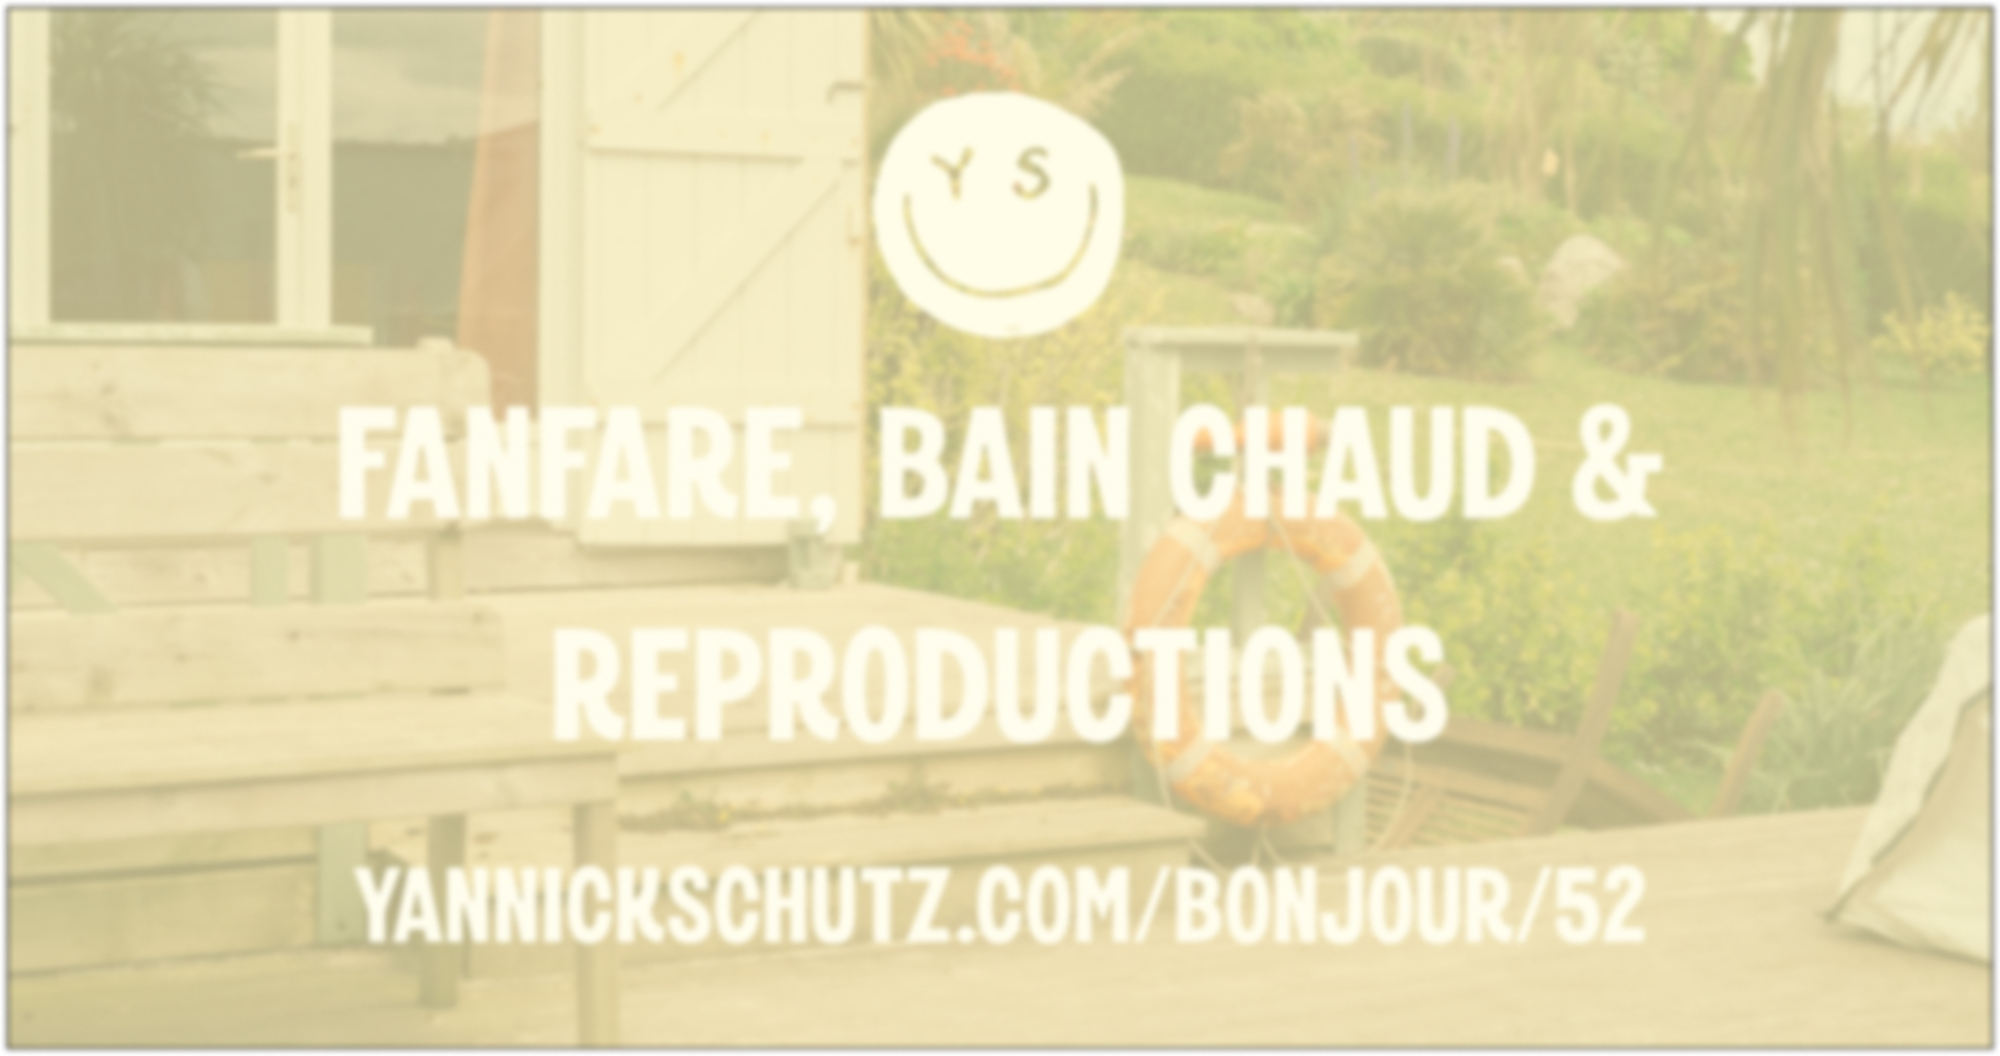
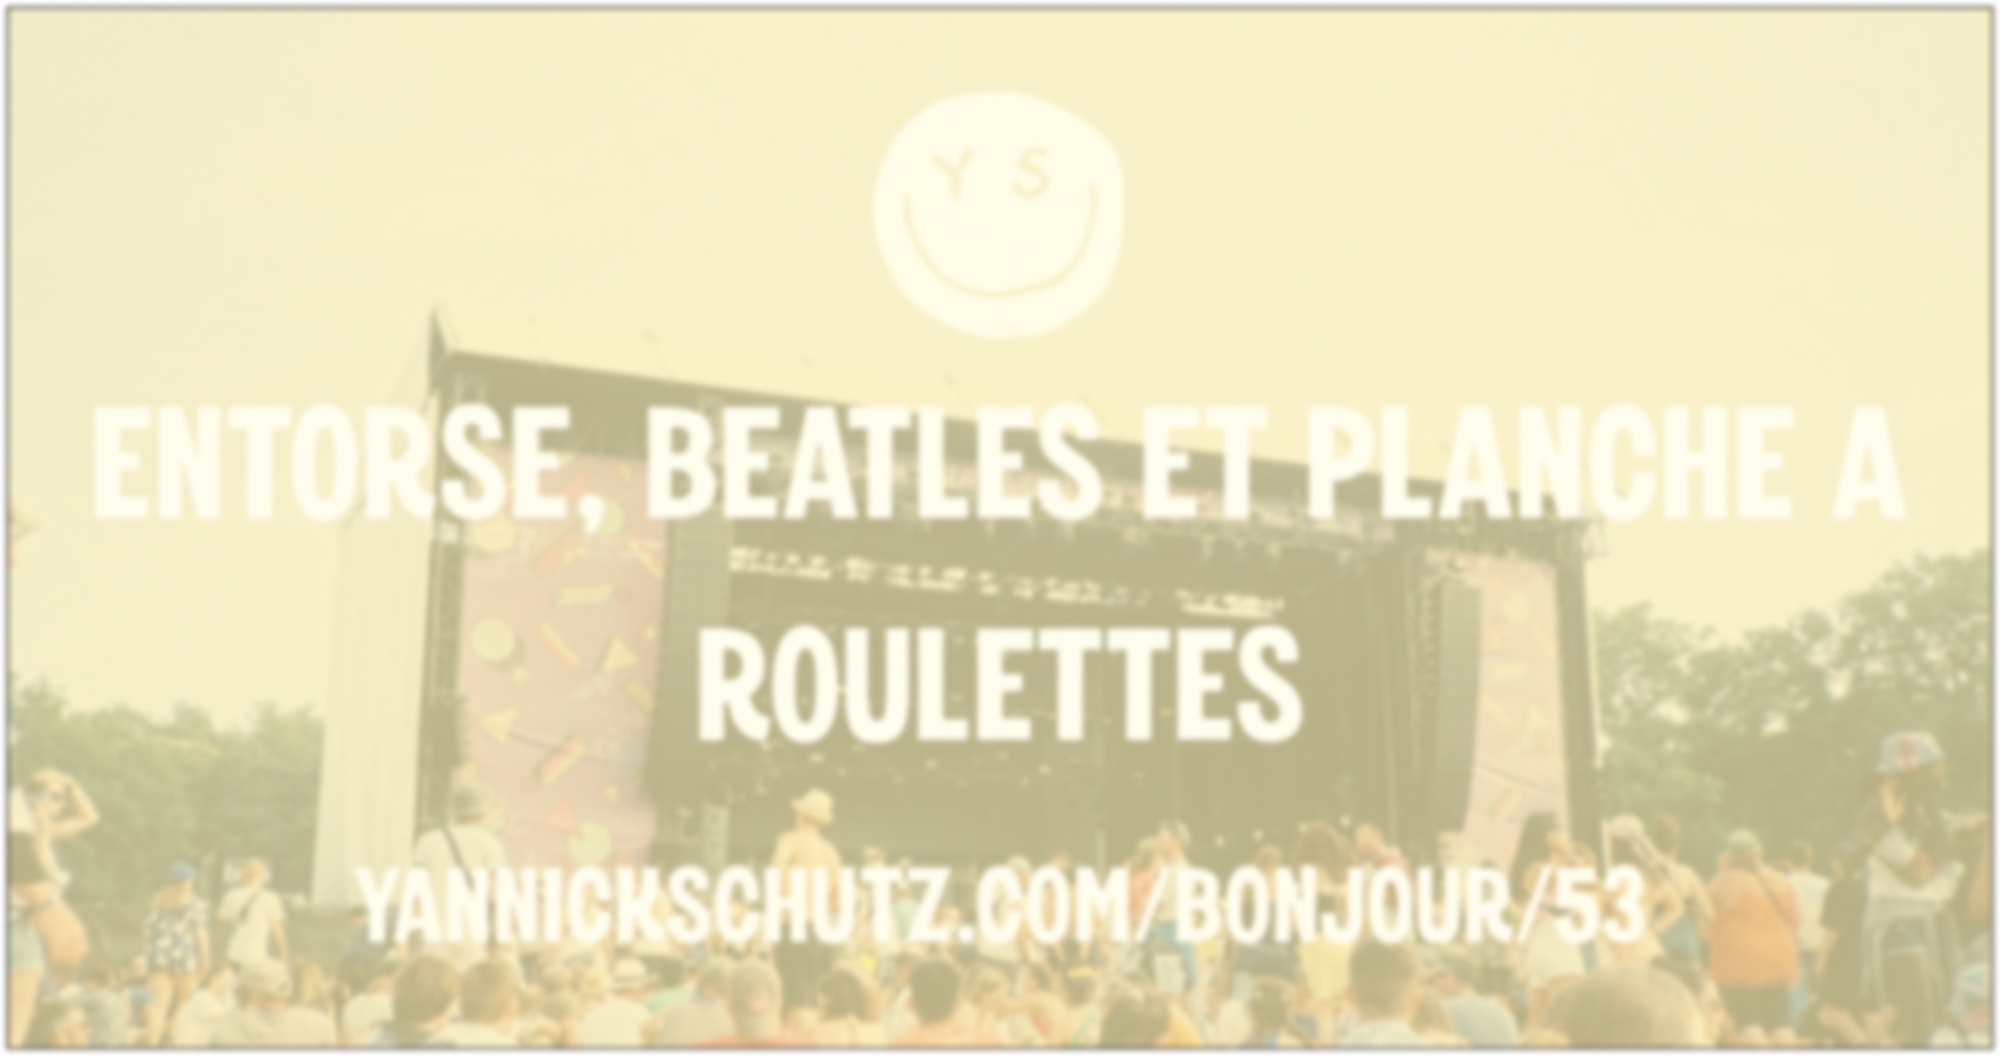
Cards

diff --git a/content/bonjour/53/index.md b/content/bonjour/53/index.md
@@ -14,7 +14,7 @@ resources:
 ---
 *Hello, c'est [Yannick](https://yannickschutz.com). Je pensais pouvoir écrire des lettres toutes les deux semaines, mais ma vie n'est pas aussi folle. Où alors, justement, elle l'est trop et je n'ai pas le temps. J'avoue écrire pas mal sur papier ces temps-ci. Peut-être que tu voudrais voir ça. N'hésite pas à me [supporter via mon ko-fi](https://ko-fi.com/bonjouryannick/tiers).*
 
-![](https://stuff.yannick.computer/22x38-0712-14.jpg)
+![](cover.webp)
 
 Bonjour,
 
